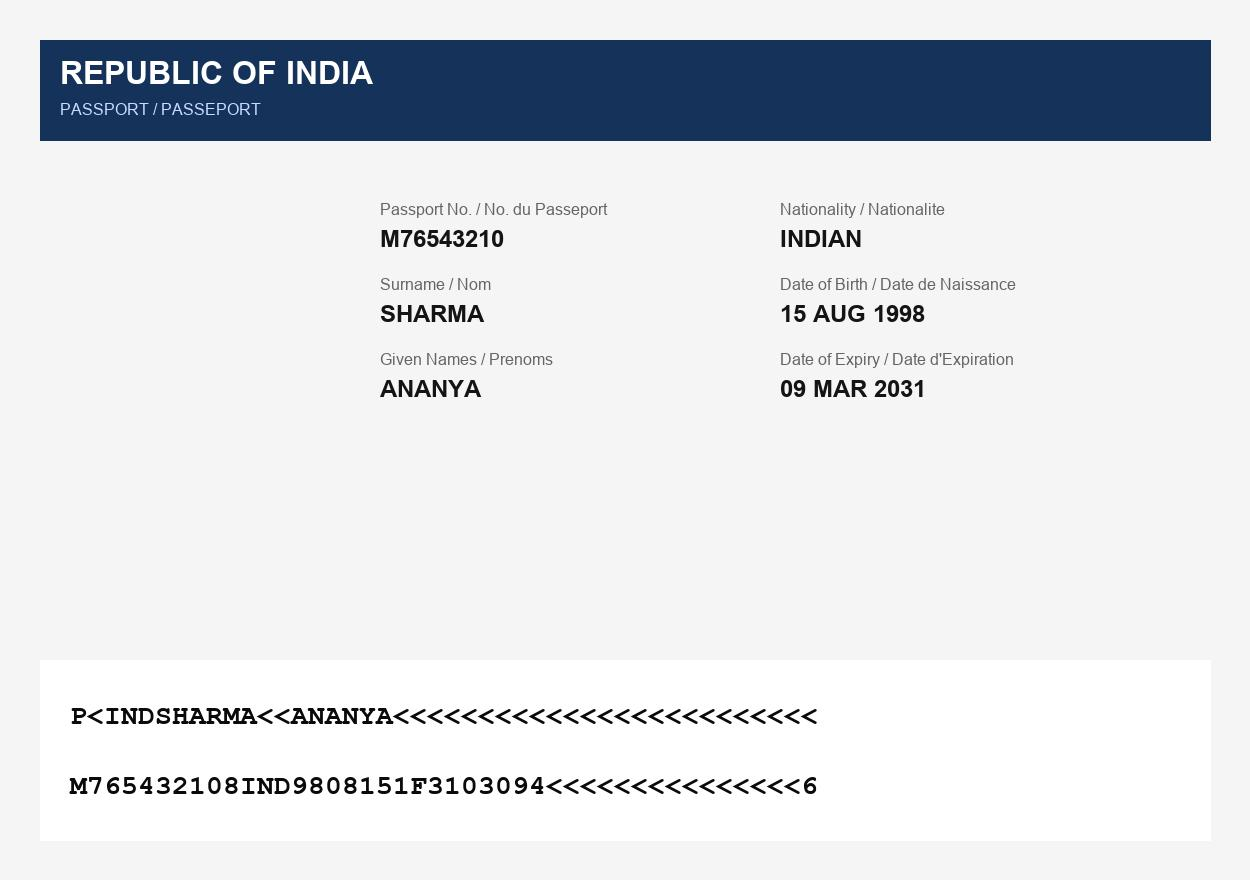
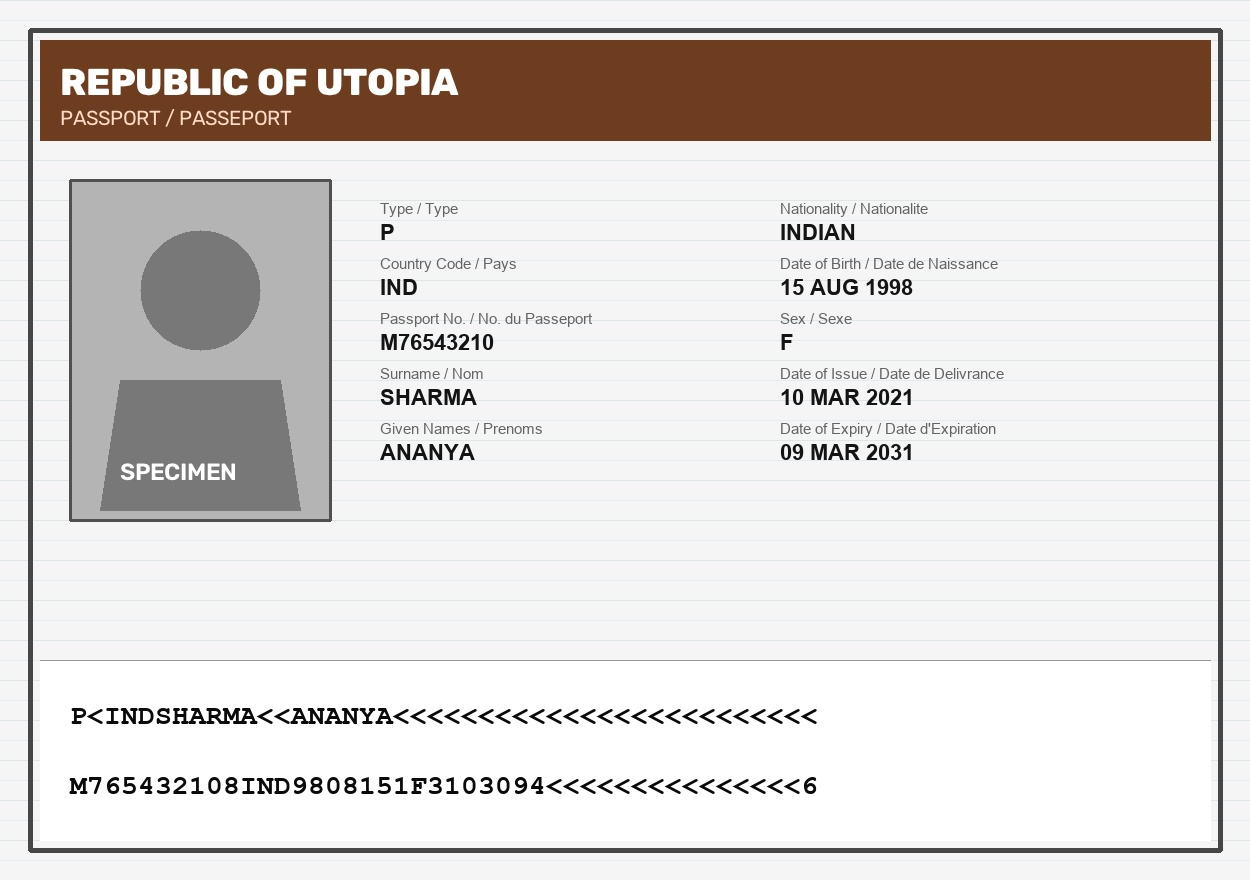
fix(synthetic): render crystal-clear TrueType document fonts ensuring 100% OCR detection

Changed region(s): [[0.0, 0.0307, 0.9984, 0.9818], [0.624, 0.2148, 0.8112, 0.5216], [0.4056, 0.4602, 0.4368, 0.4909]]

diff --git a/data/synthetic/generate_sample.py b/data/synthetic/generate_sample.py
@@ -74,19 +74,31 @@ def generate_synthetic_passport(
         ("Passport No. / No. du Passeport", doc_number),
         ("Surname / Nom", surname),
         ("Given Names / Prenoms", name),
-        ("Nationality / Nationalite", "UTOPIAN"),
-        ("Date of Birth / Date de Naissance", "12 JUL 1985"),
+        ("Nationality / Nationalite", "INDIAN" if nationality == "IND" else "UTOPIAN"),
+        ("Date of Birth / Date de Naissance", "15 AUG 1998" if dob == "980815" else "12 JUL 1985"),
         ("Sex / Sexe", sex),
-        ("Date of Issue / Date de Delivrance", "01 JAN 2020"),
-        ("Date of Expiry / Date d'Expiration", "01 JAN 2030"),
+        ("Date of Issue / Date de Delivrance", "10 MAR 2021"),
+        ("Date of Expiry / Date d'Expiration", "09 MAR 2031" if expiry == "310309" else "01 JAN 2030"),
     ]
+
+    # Convert to PIL for crisp TrueType rendering
+    from PIL import Image, ImageDraw, ImageFont
+    pil_img = Image.fromarray(cv2.cvtColor(passport, cv2.COLOR_BGR2RGB))
+    draw = ImageDraw.Draw(pil_img)
+
+    try:
+        f_lbl = ImageFont.truetype("arial.ttf", 15)
+        f_val = ImageFont.truetype("arialbd.ttf", 22)
+        f_mrz = ImageFont.truetype("courbd.ttf", 28)
+    except Exception:
+        f_lbl = f_val = f_mrz = ImageFont.load_default()
 
     for i, (label, val) in enumerate(fields):
         col = field_x if i < 5 else field_x + 400
         row_idx = i if i < 5 else i - 5
         curr_y = start_y + (row_idx * line_gap)
-        cv2.putText(passport, label, (col, curr_y), cv2.FONT_HERSHEY_SIMPLEX, 0.45, (100, 100, 100), 1)
-        cv2.putText(passport, val, (col, curr_y + 24), cv2.FONT_HERSHEY_DUPLEX, 0.75, (20, 20, 20), 2)
+        draw.text((col, curr_y), label, fill=(100, 100, 100), font=f_lbl)
+        draw.text((col, curr_y + 20), val, fill=(20, 20, 20), font=f_val)
 
     # Compute valid ICAO 9303 check digits
     doc_padded = doc_number.ljust(9, '<')[:9]
@@ -98,16 +110,18 @@ def generate_synthetic_passport(
     composite_payload = f"{doc_padded}{doc_chk}{dob}{dob_chk}{expiry}{exp_chk}{opt_data}{opt_chk}"
     composite_chk = compute_check_digit(composite_payload)
 
-    # ICAO Doc 9303 TD3 Machine Readable Zone (MRZ - 2 lines of 44 chars)
+    # ICAO Doc 9303 TD3 Machine Readable Zone (MRZ)
     mrz_bg_y = h - 220
-    cv2.rectangle(passport, (40, mrz_bg_y), (w - 40, h - 40), (255, 255, 255), -1)
-    cv2.line(passport, (40, mrz_bg_y), (w - 40, mrz_bg_y), (150, 150, 150), 1)
+    draw.rectangle([(40, mrz_bg_y), (w - 40, h - 40)], fill=(255, 255, 255))
+    draw.line([(40, mrz_bg_y), (w - 40, mrz_bg_y)], fill=(150, 150, 150), width=1)
 
     mrz_line1 = f"P<{nationality}{surname}<<{name}".ljust(44, '<')[:44]
     mrz_line2 = f"{doc_padded}{doc_chk}{nationality}{dob}{dob_chk}{sex}{expiry}{exp_chk}{opt_data}{opt_chk}{composite_chk}".ljust(44, '<')[:44]
 
-    cv2.putText(passport, mrz_line1, (70, mrz_bg_y + 65), cv2.FONT_HERSHEY_SIMPLEX, 0.95, (10, 10, 10), 2)
-    cv2.putText(passport, mrz_line2, (70, mrz_bg_y + 135), cv2.FONT_HERSHEY_SIMPLEX, 0.95, (10, 10, 10), 2)
+    draw.text((70, mrz_bg_y + 40), mrz_line1, fill=(10, 10, 10), font=f_mrz)
+    draw.text((70, mrz_bg_y + 110), mrz_line2, fill=(10, 10, 10), font=f_mrz)
+
+    passport = cv2.cvtColor(np.array(pil_img), cv2.COLOR_RGB2BGR)
 
     if not tilt_and_place:
         output_path = os.path.join("data/synthetic", output_filename)
